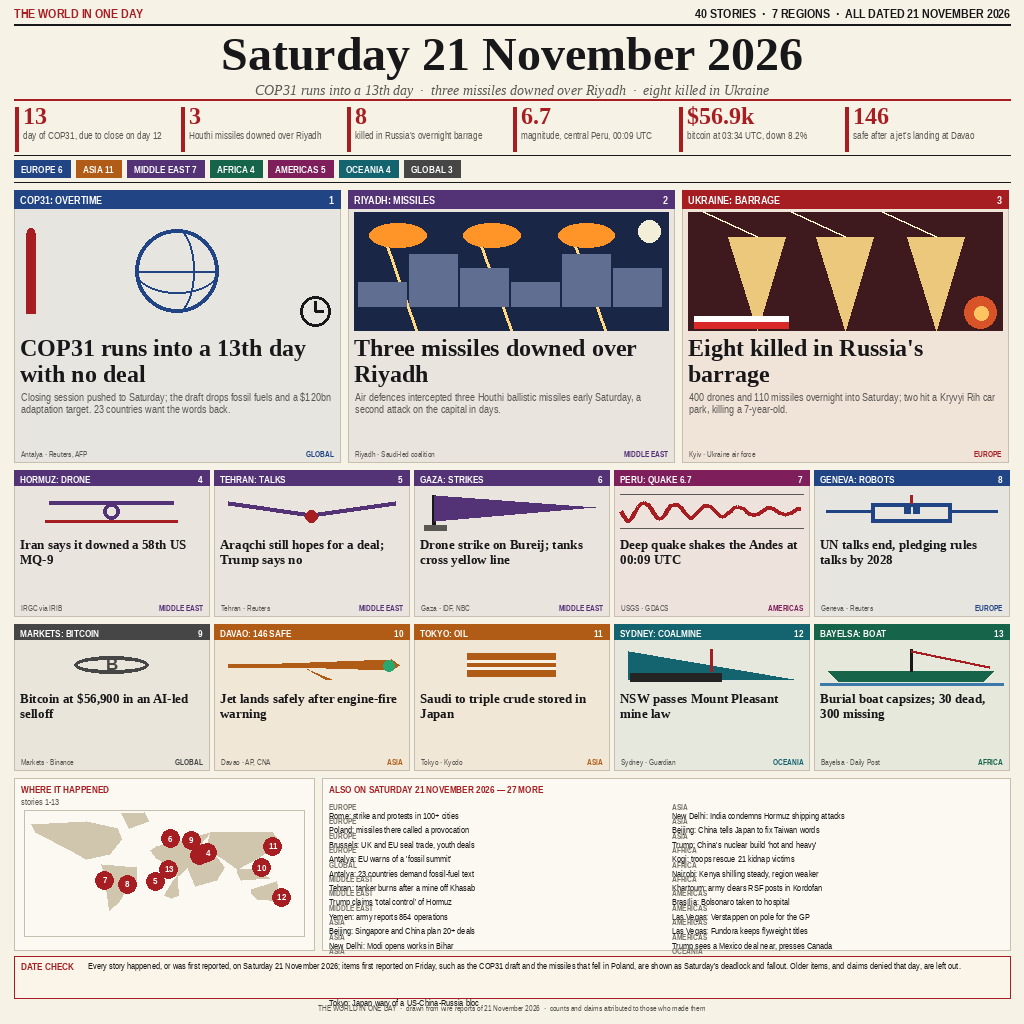
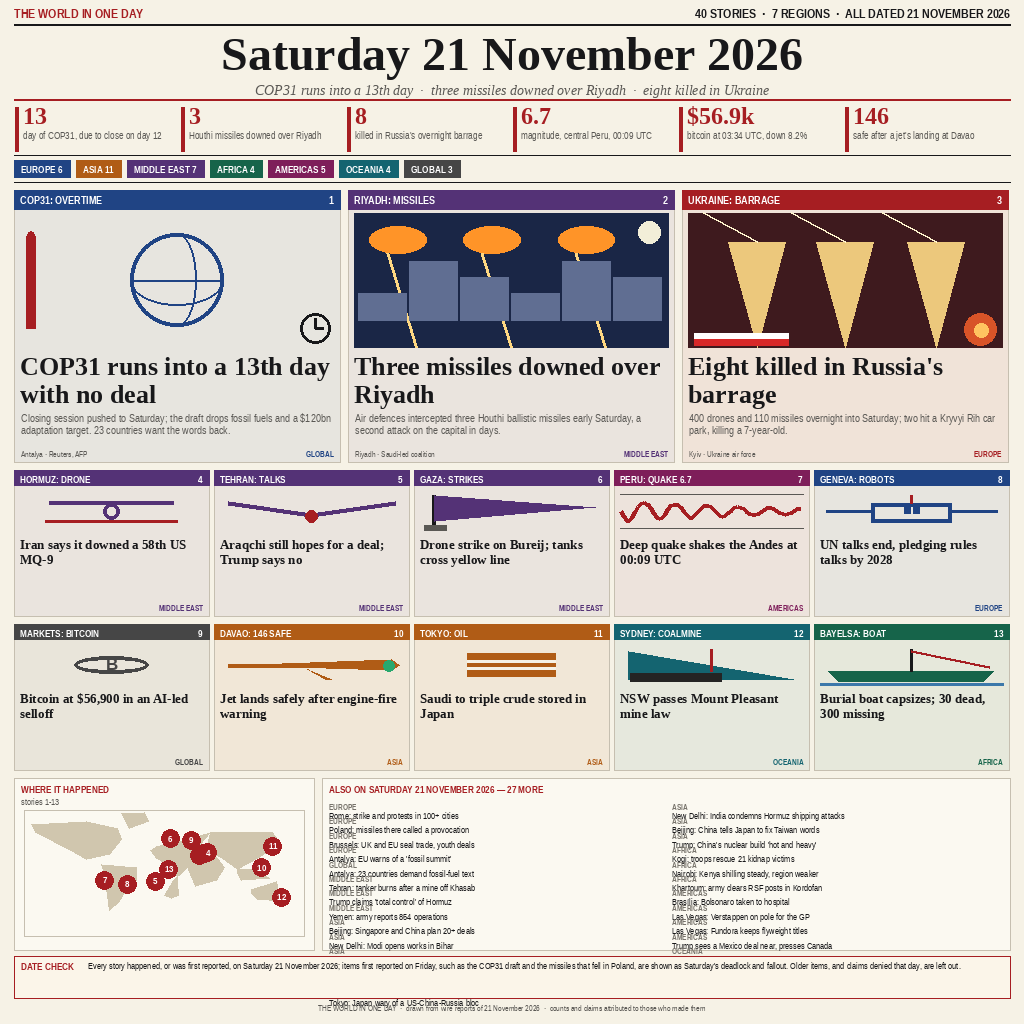
larger lead art and headlines

diff --git a/tools/render.py b/tools/render.py
@@ -269,7 +269,7 @@ cw = (W - 2 * PAD - 2 * 8) // 3
 for i, s in enumerate(LEADS):
     x0 = PAD + i * (cw + 8)
     card(x0, cy0, x0 + cw, cy1, s["kind"], s["label"], s["headline"], s["accent"], s["region"],
-         hl=24, ic=118, num=i + 1, deck=s["deck"], bar=18, src=s["src"])
+         hl=26, ic=134, num=i + 1, deck=s["deck"], bar=19, src=s["src"])
 
 ROW2 = [("drone", "HORMUZ: DRONE", "Iran says it downed a 58th US MQ-9", C_ME, "MIDDLE EAST", 4),
         ("handshake", "TEHRAN: TALKS", "Araqchi still hopes for a deal; Trump says no", C_ME, "MIDDLE EAST", 5),
@@ -282,25 +282,11 @@ ROW3 = [("coin", "MARKETS: BITCOIN", "Bitcoin at $56,900 in an AI-led selloff", 
         ("mine", "SYDNEY: COALMINE", "NSW passes Mount Pleasant mine law", C_OC, "OCEANIA", 12),
         ("boat", "BAYELSA: BOAT", "Burial boat capsizes; 30 dead, 300 missing", C_AF, "AFRICA", 13)]
 
-SRC = {
-    "HORMUZ: DRONE": "IRGC via IRIB",
-    "TEHRAN: TALKS": "Tehran \u00b7 Reuters",
-    "GAZA: STRIKES": "Gaza \u00b7 IDF, NBC",
-    "PERU: QUAKE 6.7": "USGS \u00b7 GDACS",
-    "GENEVA: ROBOTS": "Geneva \u00b7 Reuters",
-    "MARKETS: BITCOIN": "Markets \u00b7 Binance",
-    "DAVAO: 146 SAFE": "Davao \u00b7 AP, CNA",
-    "TOKYO: OIL": "Tokyo \u00b7 Kyodo",
-    "SYDNEY: COALMINE": "Sydney \u00b7 Guardian",
-    "BAYELSA: BOAT": "Bayelsa \u00b7 Daily Post",
-}
-
 def draw_row(row, y0, y1):
     cwid = (W - 2 * PAD - 4 * 5) // 5
     for i, (kind, label, head, accent, region, num) in enumerate(row):
         x0 = PAD + i * (cwid + 5)
-        card(x0, y0, x0 + cwid, y1, kind, label, head, accent, region, hl=13, ic=44,
-             num=num, bar=15, src=SRC.get(label))
+        card(x0, y0, x0 + cwid, y1, kind, label, head, accent, region, hl=13, ic=44, num=num, bar=15)
 
 draw_row(ROW2, 470, 616)
 draw_row(ROW3, 624, 770)
@@ -389,5 +375,5 @@ para(PAD + 74, DY0 + 4,
 text(W // 2, 1003, "THE WORLD IN ONE DAY  \u00b7  drawn from wire reports of 21 November 2026  \u00b7  counts and claims attributed to those who made them",
      F(NR, 8), GRAY, "ma")
 
-img.save("/home/ubuntu/makefun-news/entry6.png", optimize=True)
+img.save("/home/ubuntu/makefun-news/entry7.png", optimize=True)
 print("saved")
